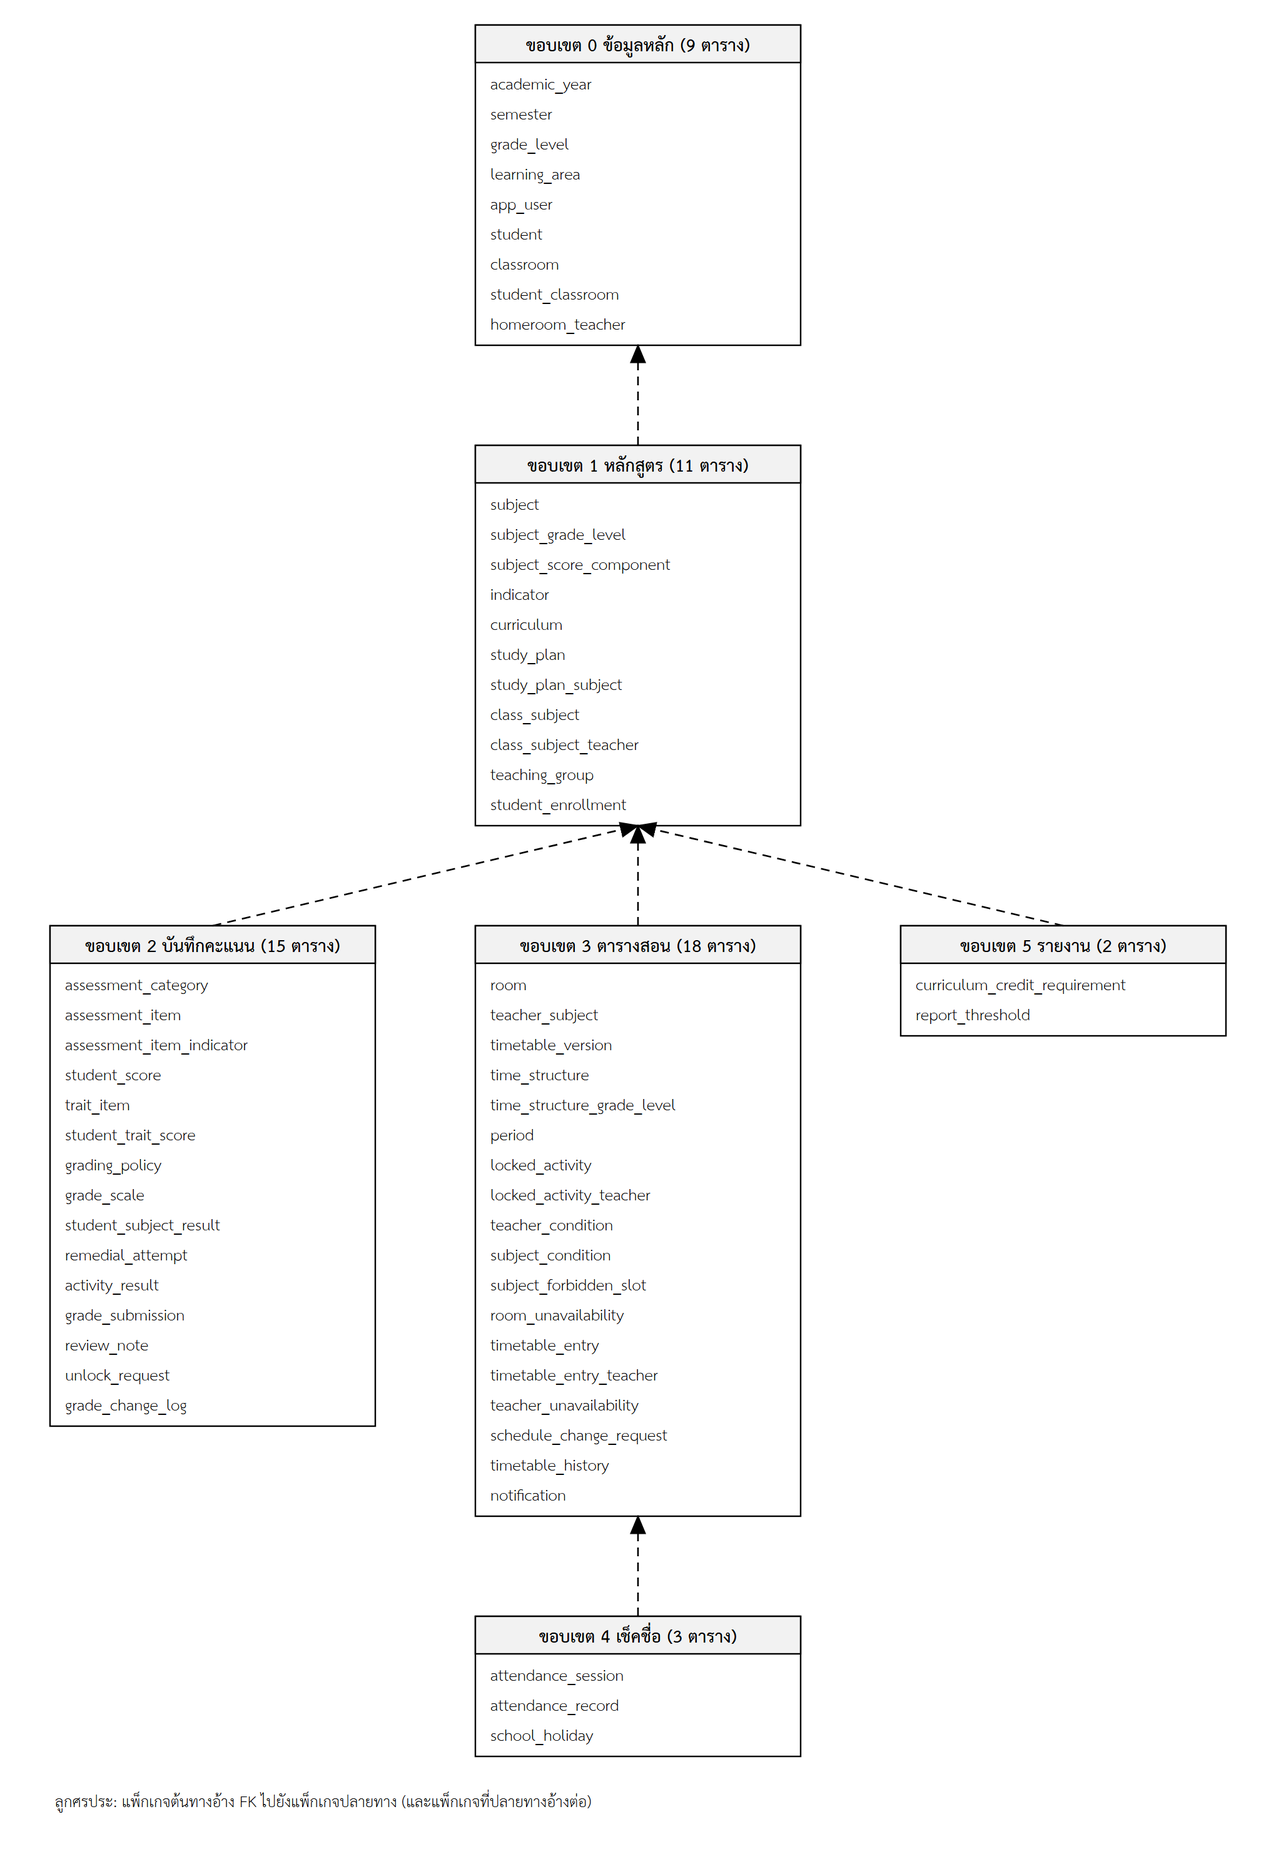
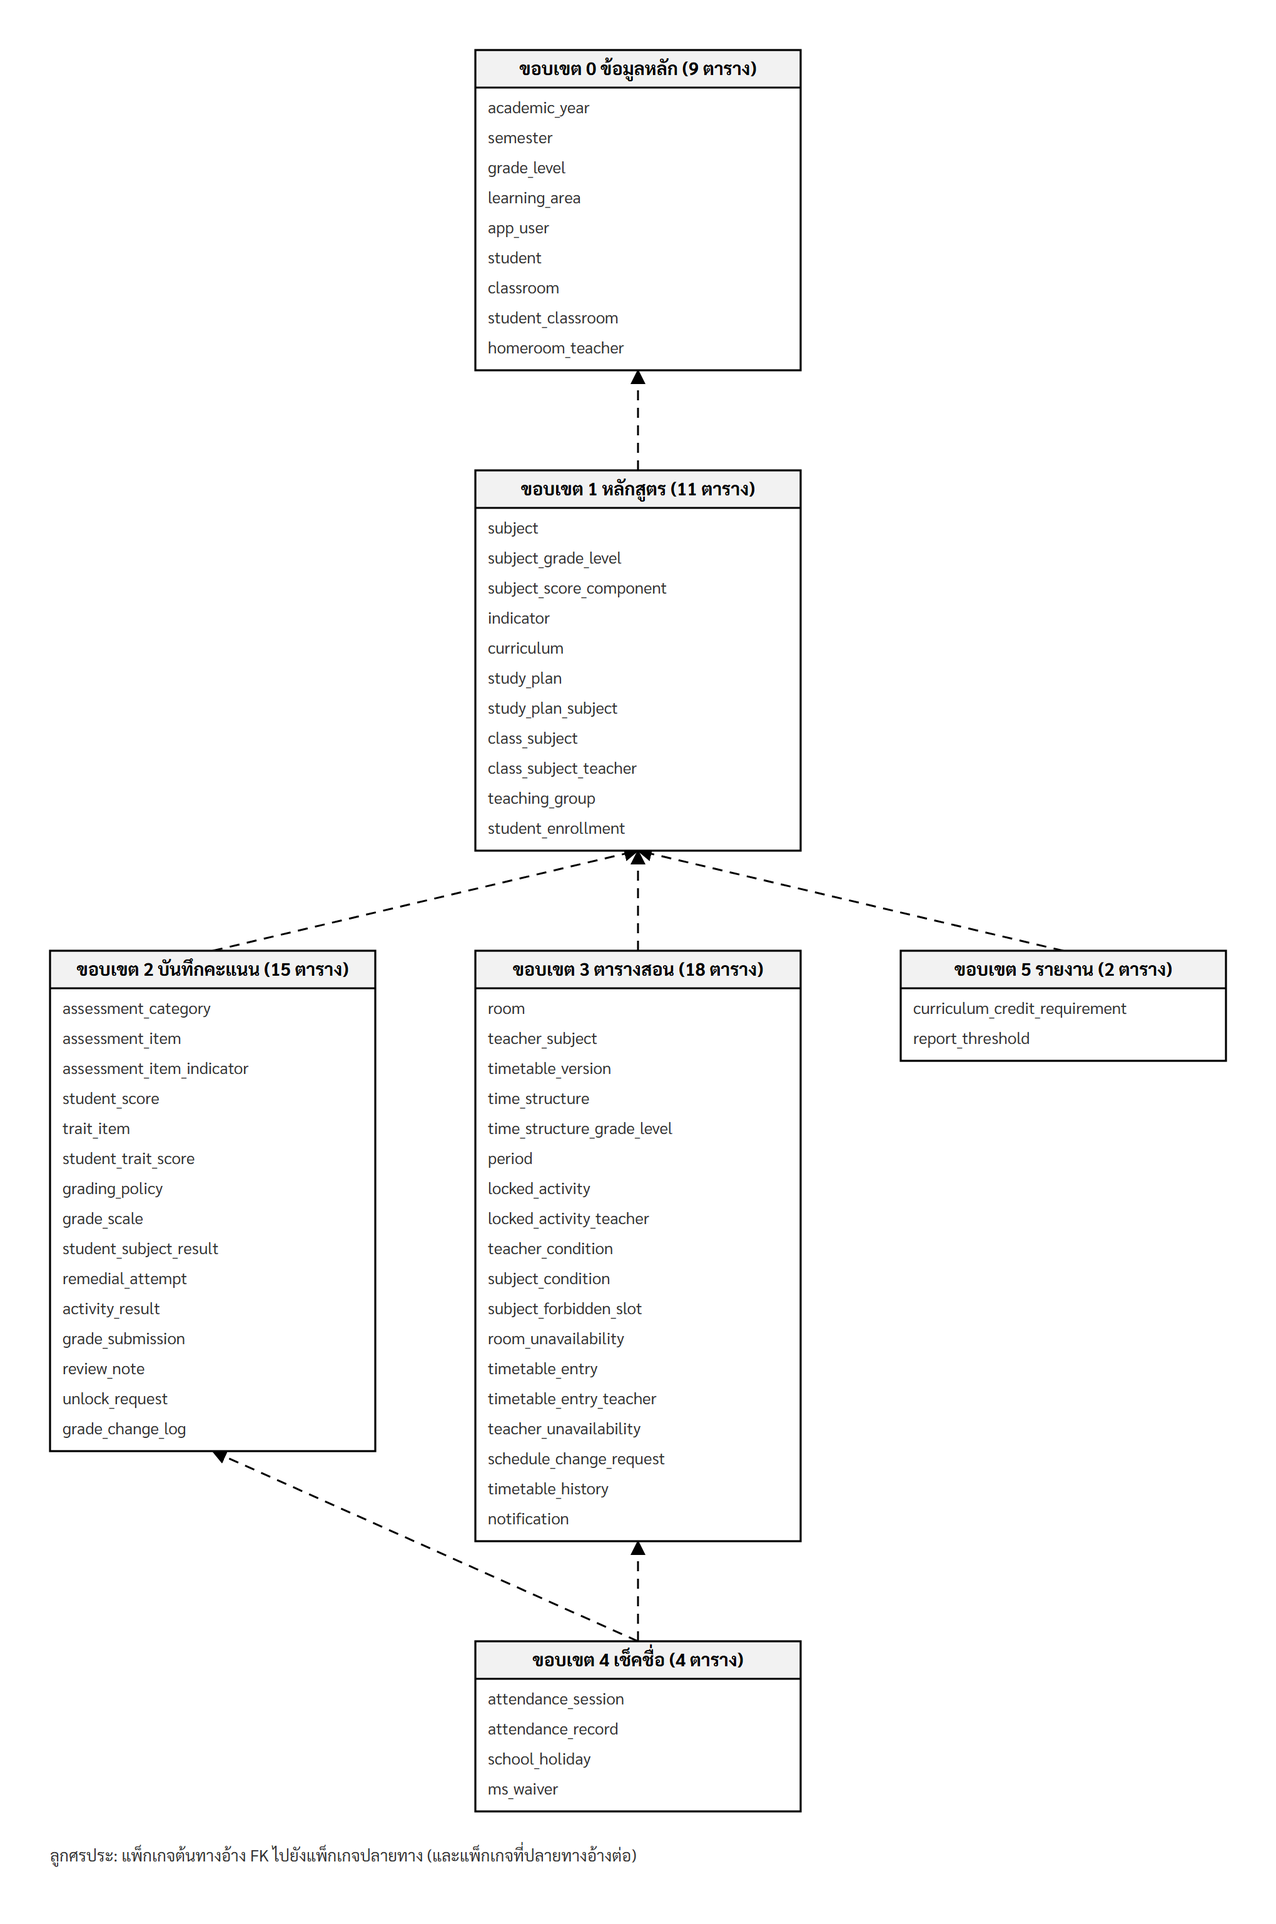
add activity + sys arch

diff --git a/docs/report-plan.md b/docs/report-plan.md
@@ -19,7 +19,7 @@
 - **ทุกจุดที่แก้ไขหรือเพิ่มในไฟล์ Word ให้เป็นตัวหนังสือสีแดง** เพื่อให้ตรวจทานได้ง่าย เมื่อยืนยันแล้วจึงเปลี่ยนกลับเป็นสีดำ — คู่มือกำหนดหมึกดำทั้งเล่ม ต้องไม่มีสีแดงค้างตอนส่ง (Rule §9)
 - การส่งออกเอกสาร (PDF/Excel) **ตัดเฉพาะใน use case** — ขอบเขตบท 1 และ FR10 คงไว้
 - ระบบที่เกี่ยวข้องในบท 2 รีวิว **SchoolBright** เป็นหลัก
-- Activity Diagram ทำเฉพาะ flow หลัก 6 รูป (ดูบท 3)
+- Activity Diagram ทำเฉพาะ flow หลัก 7 รูป (เพิ่มเช็คชื่อ 2026-11-05, ดูบท 3)
 - ER และ Data Dictionary อิงตาม [`docs/database/`](database/README.md) แยกเป็นแพ็กเกจ
 - เช็คชื่อ ชุมนุม คุณลักษณะฯ/ตัวชี้วัด **อยู่ในขอบเขต** (ตัดสิน 2026-11-04) — แก้ข้อ 1.3.4 แล้ว
 
@@ -60,7 +60,7 @@
 
 - [ ] **ปกนอกภาษาไทย** (ใส่ชื่อ "ปณวัฒน์ ธรรมเจริญ", "อิสรีย์ แม้นถาวรสิริ" หลัง "โดย" แล้ว 🔴 — ตาม template ปกนอกมีชื่อภาษาอังกฤษตัวพิมพ์ใหญ่ใต้ชื่อไทยด้วย ยังไม่ได้ใส่) — ใส่ชื่อ-นามสกุลหลังคำว่า "โดย" (ไม่ใส่คำนำหน้า) และอาจารย์ที่ปรึกษา (Rule §2)
 - [ ] **เพิ่มหน้าที่ยังไม่มี** ตามลำดับใน Rule §2: ปกในภาษาอังกฤษ (พิมพ์ใหญ่ทั้งหมด, ท้ายปก `1/2026`), Copyright (`COPYRIGHT 2026`), ใบรับรองปริญญานิพนธ์, ใบรับรองโครงงาน (PROJECT)
-- [x] **บทคัดย่อ (ไทย)** 🔴 — เขียนใหม่ 2 ย่อหน้า (ปัญหา → สิ่งที่ทำ: ศึกษาระบบที่เกี่ยวข้อง, 17 FR, 26 UC (หลังตัด UC-25), 6 Activity Diagram, 59 ตาราง, สถาปัตยกรรม, จุดเด่น, ผลลัพธ์เป็นแบบการออกแบบ + ระบบต้นแบบหน้าจอ และการทดสอบเป็นแผนในอนาคต); หัวข้อ "บทคัดย่อ" เป็น 24 หนาแล้ว; ลบบรรทัดว่างท้ายหน้า 7 บรรทัด · ส่วนหัวใส่ชื่อผู้จัดทำ 2 คนแล้ว
+- [x] **บทคัดย่อ (ไทย)** 🔴 — เขียนใหม่ 2 ย่อหน้า (ปัญหา → สิ่งที่ทำ: ศึกษาระบบที่เกี่ยวข้อง, 17 FR, 26 UC (หลังตัด UC-25), 7 Activity Diagram, 59 ตาราง, สถาปัตยกรรม, จุดเด่น, ผลลัพธ์เป็นแบบการออกแบบ + ระบบต้นแบบหน้าจอ และการทดสอบเป็นแผนในอนาคต); หัวข้อ "บทคัดย่อ" เป็น 24 หนาแล้ว; ลบบรรทัดว่างท้ายหน้า 7 บรรทัด · ส่วนหัวใส่ชื่อผู้จัดทำ 2 คนแล้ว
 - [x] **Abstract** 🔴 — เขียนใหม่ให้ตรงกับบทคัดย่อไทย; Program = Information Technology, Academic Year = 2026, "ABSTRACT" 24 หนา · Student 2 บรรทัด ใส่รหัส 66070113, 66070323 แล้ว · [ ] เติมชื่อภาษาอังกฤษแทน "[English name 1]" / "[English name 2]"
 - [x] **กิตติกรรมประกาศ** 🔴 — เพิ่มหน้าใหม่ (หน้า III) ต่อจาก ABSTRACT: ขอบคุณอาจารย์ที่ปรึกษา, ทีมระบบจัดการผู้ใช้งาน, คณาจารย์คณะ และครอบครัว; ลงชื่อชิดขวาท้ายข้อความ · ลงชื่อผู้จัดทำ 2 คนแล้ว · [ ] ปรับถ้อยคำตามจริง
 - [ ] **สารบัญ** — สร้างใหม่ตอนท้าย (เลขหน้าปัจจุบันไม่ตรง เช่น บท 2 ระบุหน้า 6 แต่จริงหน้า 8) เพิ่ม **สารบัญตาราง** แล้วตามด้วย **สารบัญรูป** หน้าต่อใช้ "(ต่อ)" (Rule §2)
@@ -98,7 +98,8 @@
 ### ส่วนที่เพิ่มใหม่
 
 - [x] **3.1.1 ปัญหาของระบบที่เกี่ยวข้อง** 🔴 — ย่อหน้าเกริ่น + ตารางที่ 3.1 (ปัญหาที่พบในระบบที่เกี่ยวข้อง → แนวทางของระบบที่พัฒนา → ข้อของ Functional Requirements) 6 แถว; Functional Requirements / Non-functional เลื่อนเป็น 3.1.2 / 3.1.3; ตารางทั้งบท 3 เลื่อน +1 (UC เป็น 3.2–3.28, Data Dictionary เป็น 3.29–3.86)
-- [x] **3.3.3 Activity Diagram** 6 รูป 🔴 — รูปที่ 3.3–3.8 แบบ swimlane (ผู้ใช้ | ระบบ) ต่อจาก Use-case description; ไฟล์ draw.io ที่แก้ต่อได้อยู่ที่ [`docs/activity/`](activity/) (`.drawio` + `.png`) — ถ้าแก้ใน draw.io ให้ export PNG ใหม่แล้วแทนรูปในเล่ม
+- [x] **3.2.1 System Architecture (รูปที่ 3.1)** วาดใหม่ 2026-11-05 🔴 — ขาวดำแบบรูปอื่น ไฟล์อยู่ที่ [`docs/architecture/`](architecture/) · ระบบอีกทีมแสดงแบบย่อเป็นกล่องเดียว (User Management Service + ข้อมูลหลัก: ครู/ผู้ใช้ นักเรียน/ห้องเรียน ปีการศึกษา/ภาคเรียน — ปีการศึกษาใส่ไว้ก่อน ยังไม่แน่ใจ) · เรียกได้ 2 ทาง: Login ผ่าน Nginx และ Academic Service ตรวจ Token เอง · ข้อมูลหลักซิงก์มาเก็บในขอบเขต 0 ด้วย Celery · ฝั่งเราแสดงเต็ม: 5 ระบบย่อย, PostgreSQL, Redis, Celery พร้อมงานเบื้องหลัง 4 งาน · ย่อหน้าใต้รูปเขียนใหม่ 3 ย่อหน้า
+- [x] **3.3.3 Activity Diagram** 7 รูป 🔴 — รูปที่ 3.3–3.9 แบบ swimlane (ผู้ใช้ | ระบบ) ต่อจาก Use-case description; ไฟล์ draw.io ที่แก้ต่อได้อยู่ที่ [`docs/activity/`](activity/) (`.drawio` + `.png`) — ถ้าแก้ใน draw.io ให้ export PNG ใหม่แล้วแทนรูปในเล่ม
 
   | # | Flow | UC |
   |---|---|---|
@@ -108,10 +109,11 @@
   | 4 | บันทึกและเผยแพร่ตารางสอน | UC-9 |
   | 5 | จัดการโครงสร้างคะแนนและบันทึกคะแนน | UC-11, 12 |
   | 6 | คำนวณผลการเรียนและตรวจสอบผ่าน/ไม่ผ่าน | UC-13, 14 |
+  | 7 | เช็คชื่อและตรวจสอบเวลาเรียน (เพิ่ม 2026-11-05) | UC-23, 24 |
 
-  ตอนนี้มี 26 UC (ตัด UC-25 แล้ว) — 6 รูปนี้ครอบคลุม 12 UC (UC-2 ถึง 9, 11 ถึง 14); UC-1, 10, 15, 16 เป็นการดูข้อมูล/รายงาน และ UC-17 ถึง 26 ที่เพิ่มภายหลังยังไม่มีรูป (ตกลงทำเฉพาะ flow หลัก)
+  ตอนนี้มี 26 UC (ตัด UC-25 แล้ว) — 7 รูปนี้ครอบคลุม 14 UC (UC-2 ถึง 9, 11 ถึง 14, 23, 24); UC-1, 10, 15, 16 เป็นการดูข้อมูล/รายงาน และ UC-17 ถึง 26 ที่เพิ่มภายหลังยังไม่มีรูป (ตกลงทำเฉพาะ flow หลัก)
 
-- [x] **3.4.1 ER แยกแพ็กเกจ** 🔴 — รูปที่ 3.9 ภาพรวมแยกตามขอบเขต (แทน ER เดิมแบบ PascalCase) + รูปที่ 3.10–3.15 ER ของ core, curriculum, grading, timetable, attendance (ชั่วคราว), reports (เลื่อนจาก 3.3–3.9 หลังเพิ่ม Activity Diagram); ไฟล์ draw.io ที่แก้ต่อได้อยู่ที่ [`docs/database/er/`](database/er/) (`.drawio` + `.png`) — ถ้าแก้ใน draw.io ให้ export PNG ใหม่แล้วแทนรูปในเล่ม
+- [x] **3.4.1 ER แยกแพ็กเกจ** 🔴 — รูปที่ 3.10 ภาพรวมแยกตามขอบเขต (แทน ER เดิมแบบ PascalCase) + รูปที่ 3.11–3.16 ER ของ core, curriculum, grading, timetable, attendance (ชั่วคราว), reports (เลื่อนตาม Activity Diagram ที่เพิ่ม); ไฟล์ draw.io ที่แก้ต่อได้อยู่ที่ [`docs/database/er/`](database/er/) (`.drawio` + `.png`) — ถ้าแก้ใน draw.io ให้ export PNG ใหม่แล้วแทนรูปในเล่ม
 - [x] **3.4.2 Data Dictionary** 🔴 — ตารางที่ 3.3–3.61 (59 ตาราง — เพิ่ม `ms_waiver` ตารางที่ 3.59 เมื่อ 2026-11-05) แยกตามขอบเขตด้วยหัวข้อ 3.4.2.1–3.4.2.6; คอลัมน์ ฟิลด์ · ชนิดข้อมูล · คีย์ · Null · คำอธิบาย + แถว "เงื่อนไข" (เฉพาะ UK — ตัด CHECK ออกตามที่ตกลง), หัวตารางสีเทา (D9D9D9); ฟิลด์ที่ขอบเขตหลังเพิ่มให้ตารางก่อนหน้ารวมไว้ในตารางเดิม
 - [x] ย่อหน้าเกริ่นใน 3.3.2, 3.3.3, 3.4.1, 3.4.2 พิมพ์เลขตาราง/รูปไว้ตรง ๆ ("ตารางที่ 3.2", "ก.1 ถึง ก.27", "รูปที่ 3.3 ถึง 3.8", "รูปที่ 3.9", "3.10 ถึง 3.15", "ตารางที่ 3.3 ถึง 3.60") — แก้ตามแล้วหลังย้าย use case 🔴; ถ้าเพิ่ม/ลบตารางหรือรูปในบท 3 อีก ต้องแก้ข้อความเหล่านี้ด้วย
 
@@ -140,7 +142,8 @@
 - [x] ตัด UC-17 (export) แล้วเลื่อนเลข UC-18–28 เป็น UC-17–27 🔴 — ID ในตาราง UC, การอ้างถึงใน UC-7 (UC-22) และ UC ใหม่ (UC-17, 18, 19, 23, 25) แก้ครบ; caption ตาราง UC/Data Dictionary เลื่อนตาม (เลข SEQ ที่แสดงแก้เป็นสีแดงไว้แล้ว — กด F9 อัปเดต field ใน Word จะได้ค่าเดียวกัน)
 - [x] ตัด UC-25 กำหนดวันหยุดของโรงเรียน (เดโมไม่มีหน้าจอแล้ว วันหยุดมาจากข้อมูลตั้งต้น) แล้วเลื่อน UC-26–27 เป็น UC-25–26 (2026-11-05) 🔴 — ลบตาราง ก.25 และแถวในตารางที่ 3.2, เลื่อน ก.26–27 และ ID เป็น 25–26, แก้ "27 รายการ" เป็น 26 ในย่อหน้าเกริ่น 3.3.2 / ภาคผนวก / บทคัดย่อ / Abstract, แก้ E-2 ของ UC-23 ไม่ให้อ้าง UC-25, ตัด "กำหนดวันหยุดของโรงเรียน" ออกจากข้อ 1.3.1, วาดรูป 3.2 ใหม่ (`docs/usecase/`) · ตาราง `school_holiday` ใน Data Dictionary คงไว้ (ใช้ตอนเช็คชื่อ)
 - [x] ปรับ use case และฐานข้อมูลให้ตรงกับเดโม 2026-11-05 ([changelog](changelog-2026-11-05.md), grading ADR 0012, 0013) 🔴 — ก.20 สอบซ่อมเขียนใหม่ทั้งตาราง (ไม่เกิน 2 ครั้ง, ≥50% ได้ 1, บันทึกหลังอนุมัติได้โดยไม่ปลดล็อก, ห้ามระหว่างรอตรวจ) · ก.23 เพิ่ม A-1 เช็คย้อนหลัง และ A-2 แก้ ขาด → มา ต้องมีเหตุผล · ก.24 เพิ่มแท็บรายวิชาของครูประจำชั้น, A-2 ปลด มส, กฎกลุ่มเสี่ยง · ก.26 เพิ่มขั้นฝ่ายวิชาการอนุมัติ/ตีกลับผลชุมนุม · ก.16 เพิ่มรายงานการเข้าเรียน/ผู้ไม่มีสิทธิ์สอบ · ตาราง 3.2 และ FR ข้อ 14 ตาม · Data Dictionary: `attendance_session.fill_method`, `grade_change_log.reason` + change_type `ms_waiver`, ตารางใหม่ `ms_waiver` (3.59) — เลขตารางหลังจากนั้นเลื่อน +1 · ไม่ทำเรื่องครูสอนแทน
-- [x] ER รูปที่ 3.14 (ขอบเขต 4) เพิ่มตาราง `ms_waiver` + `student_subject_result` (อ้างอิง) และฟิลด์ `fill_method` · รูปที่ 3.12 (ขอบเขต 2) เพิ่ม `grade_change_log.reason` — แก้ใน `docs/database/er/*.drawio` แล้ววาด PNG ใหม่แทนในเล่ม (caption เป็นสีแดง) 2026-11-05 🔴
+- [x] ER รูปที่ 3.15 (เดิม 3.14, ขอบเขต 4) เพิ่มตาราง `ms_waiver` + `student_subject_result` (อ้างอิง) และฟิลด์ `fill_method` · รูปที่ 3.13 (เดิม 3.12, ขอบเขต 2) เพิ่ม `grade_change_log.reason` — แก้ใน `docs/database/er/*.drawio` แล้ววาด PNG ใหม่แทนในเล่ม (caption เป็นสีแดง) 2026-11-05 🔴
+- [x] ER รูปที่ 3.10 (เดิม 3.9) ภาพรวม — ขอบเขต 4 เป็น 4 ตาราง (เพิ่ม `ms_waiver`) และเพิ่มลูกศรขอบเขต 4 → ขอบเขต 2 (เพราะ `ms_waiver` อ้าง `student_subject_result`) แก้ `er-overview.drawio` และแทนภาพในเล่มแล้ว 2026-11-05 🔴
 - [x] G2 🔴 — ตารางที่ ก.20 UC-20 บันทึกผลการสอบซ่อม (⚠ เดโมยังไม่มีหน้าบันทึกผลสอบซ่อม มีแต่หน้ารายงาน)
 - [x] G3 🔴 — ตารางที่ ก.21 UC-21 ยื่นและพิจารณาคำร้องขอเปลี่ยนการจัดตารางสอน · ก.22 UC-22 กรอกและพิจารณาเวลาไม่ว่างของครู (ตาม `timetable/` ADR 0001 และ GLOSSARY)
 - [x] G4, G8, G9 🔴 — เติมข้อความใน UC-2, 4, 5, 6, 7, 11, 16 (9 จุด) ให้ครอบคลุมช่วงชั้น กิจกรรมล็อกเวลา ครูร่วมสอน ห้องไม่พร้อมใช้ วิชาที่ครูสอนได้ หน่วยกิตสะสม เกณฑ์รายงาน และโครงสร้างคะแนนตั้งต้น

diff --git a/docs/plan-ch4-5.md b/docs/plan-ch4-5.md
@@ -68,7 +68,7 @@
 ### 5.1 สรุปผลการดำเนินงาน
 
 - **ตาราง** วัตถุประสงค์ข้อ 1.2 ทีละข้อ · ผลที่ได้ · หลักฐาน (เลขรูป / ตาราง) · ทำได้ / ทำได้บางส่วน
-- สรุปตัวเลขของงาน: 17 FR, 26 UC, 6 Activity Diagram, ER 59 ตาราง, หน้าจอ N หน้า
+- สรุปตัวเลขของงาน: 17 FR, 26 UC, 7 Activity Diagram, ER 59 ตาราง, หน้าจอ N หน้า
 
 ### 5.2 ผลการแก้ปัญหาของระบบเดิม
 
